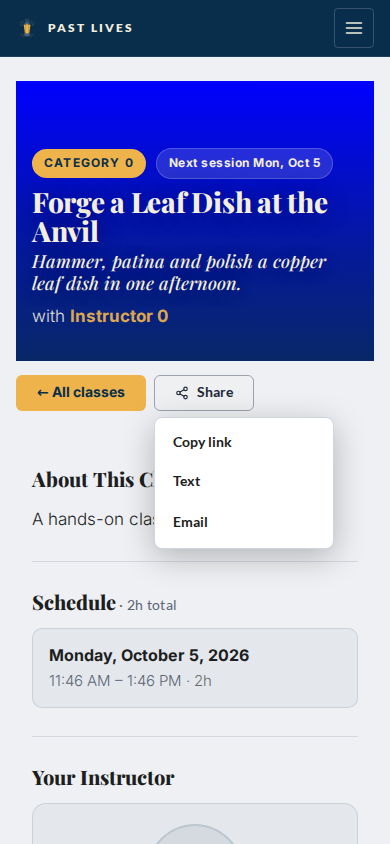
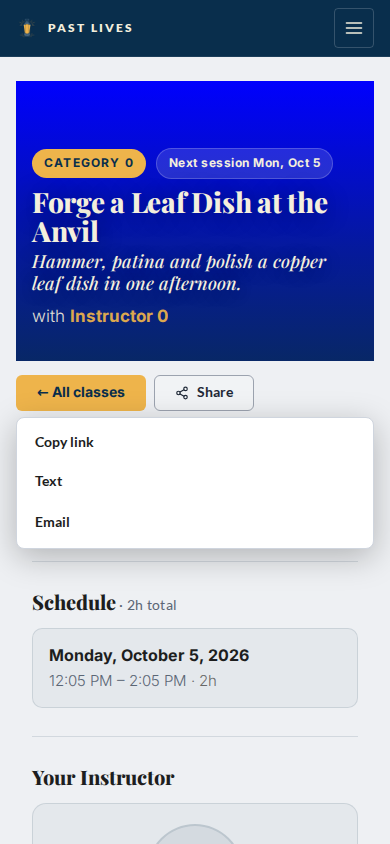
Keep the copy by hand field outside the share menu and prove it
The readonly link field sits in a positioning panel beside the menu, so
the menu holds only menu items. On a phone the panel spans the row under
both buttons instead of running off the right edge. A new e2e stubs out
the clipboard and asserts the field appears, holds the link, and is
focused with the text selected.

Claude-Session: https://claude.ai/code/session_017RsMN4dUoLdeQVL5dFqUgW

diff --git a/templates/classes/public/detail.html b/templates/classes/public/detail.html
@@ -150,13 +150,16 @@ appends and runs it on the first boosted arrival here (FRONTEND.md, Scripts unde
           </svg>
           <span>Share</span>
         </button>
-        <div class="cp-share__menu" role="menu" aria-label="Share this class" x-show="open" x-cloak>
-          <button type="button" role="menuitem" class="cp-share__item" data-share-copy="{{ offering.public_url }}"
-                  x-text="copied ? 'Copied!' : 'Copy link'">Copy link</button>
+        {# The panel positions the dropdown; the menu inside holds only menuitems (ARIA), and the by-hand copy field sits under it. #}
+        <div class="cp-share__panel" x-show="open" x-cloak>
+          <div class="cp-share__menu" role="menu" aria-label="Share this class">
+            <button type="button" role="menuitem" class="cp-share__item" data-share-copy="{{ offering.public_url }}"
+                    x-text="copied ? 'Copied!' : 'Copy link'">Copy link</button>
+            <a role="menuitem" class="cp-share__item" href="sms:?&body={{ share_body|urlencode:'' }}" @click="open = false">Text</a>
+            <a role="menuitem" class="cp-share__item" href="mailto:?subject={{ share_title|urlencode:'' }}&body={{ share_body|urlencode:'' }}" @click="open = false">Email</a>
+          </div>
           <input type="text" readonly class="cp-share__manual" value="{{ offering.public_url }}" aria-label="Class link"
                  x-show="manual" x-ref="manualUrl" @click="$el.select()">
-          <a role="menuitem" class="cp-share__item" href="sms:?&body={{ share_body|urlencode:'' }}" @click="open = false">Text</a>
-          <a role="menuitem" class="cp-share__item" href="mailto:?subject={{ share_title|urlencode:'' }}&body={{ share_body|urlencode:'' }}" @click="open = false">Email</a>
         </div>
       </div>
       {% endwith %}

diff --git a/static/css/cms-public.css b/static/css/cms-public.css
@@ -675,7 +675,9 @@ html.dark .cp-page {
   font-family: var(--font);
   border-color: var(--hub-border-strong);
 }
-.cp-share__menu {
+/* The panel is the dropdown surface; the role="menu" list inside it holds only menuitems, and
+   the by-hand copy field (revealed when the clipboard write fails) sits under that list. */
+.cp-share__panel {
   position: absolute;
   top: calc(100% + 6px);
   left: 0;
@@ -686,6 +688,8 @@ html.dark .cp-page {
   border-radius: 8px;
   box-shadow: 0 8px 32px rgba(0,0,0,0.25);
   z-index: 60;
+}
+.cp-share__menu {
   display: flex;
   flex-direction: column;
   gap: 2px;
@@ -721,8 +725,10 @@ html.dark .cp-page {
 }
 /* Shown only when the clipboard write failed: a readonly copy of the link to select by hand. */
 .cp-share__manual {
+  box-sizing: border-box;
   width: 100%;
-  margin: 2px 0;
+  min-width: 260px;
+  margin: 6px 0 2px;
   padding: 7px 10px;
   border: 1px solid var(--hub-input-border);
   border-radius: 6px;
@@ -730,6 +736,15 @@ html.dark .cp-page {
   color: var(--hub-text);
   font-family: var(--font);
   font-size: 13px;
+}
+/* On a phone the panel anchored to the button's left edge runs off the viewport once the
+   copy field shows, so the links group becomes the offset parent and the panel spans the
+   row under both buttons. */
+@media (max-width: 480px) {
+  .cp-detail__hero-links { flex: 1 1 auto; position: relative; }
+  .cp-share { position: static; }
+  .cp-share__panel { left: 0; right: 0; min-width: 0; }
+  .cp-share__manual { min-width: 0; }
 }
 
 /* ── Hero ──────────────────────────────────────── */

diff --git a/tests/e2e/class_share_spec.py b/tests/e2e/class_share_spec.py
@@ -13,6 +13,7 @@ Run with ``pytest -m e2e``.
 from __future__ import annotations
 
 from datetime import timedelta
+from typing import cast
 from urllib.parse import unquote, urlparse
 
 from django.urls import reverse
@@ -26,6 +27,8 @@ SHARE_BUTTON = "button[data-share-url]"
 MENU = ".cp-share [role=menu]"
 ITEMS = ".cp-share [role=menuitem]"
 COPY = "button[data-share-copy]"
+MANUAL = ".cp-share__manual"
+NO_CLIPBOARD = "Object.defineProperty(navigator, 'clipboard', { value: undefined });"
 TEXT_LINK = ".cp-share a[href^='sms:']"
 EMAIL_LINK = ".cp-share a[href^='mailto:']"
 TITLE = "Forge a Leaf Dish"
@@ -43,7 +46,10 @@ CAPACITOR_STUB = (
 
 
 def _published() -> ClassOffering:
-    offering = ClassOfferingFactory(status=ClassOffering.Status.PUBLISHED, title=TITLE, slug="forge-a-leaf-dish")
+    offering = cast(
+        "ClassOffering",
+        ClassOfferingFactory(status=ClassOffering.Status.PUBLISHED, title=TITLE, slug="forge-a-leaf-dish"),
+    )
     start = timezone.now() + timedelta(days=3)
     ClassSessionFactory(class_offering=offering, starts_at=start, ends_at=start + timedelta(hours=2))
     return offering
@@ -91,6 +97,27 @@ def describe_the_share_button():
 
         expect(page.locator(COPY)).to_have_text("Copied!")
         assert page.evaluate("navigator.clipboard.readText()") == offering.public_url
+
+    def it_offers_the_link_to_copy_by_hand_when_the_clipboard_is_missing(live_server, page: Page, settings):
+        page.add_init_script(NO_CLIPBOARD)
+        offering = _open(page, live_server, settings)
+        page.locator(SHARE_BUTTON).click()
+        expect(page.locator(MANUAL)).to_be_hidden()
+
+        page.locator(COPY).click()
+
+        expect(page.locator(MANUAL)).to_be_visible()
+        expect(page.locator(MANUAL)).to_have_value(offering.public_url)
+        expect(page.locator(COPY)).to_have_text("Copy link")
+        state = page.evaluate(
+            """() => {
+              const el = document.querySelector('.cp-share__manual');
+              return {focused: document.activeElement === el,
+                      start: el.selectionStart, end: el.selectionEnd, length: el.value.length};
+            }"""
+        )
+        assert state["focused"] is True
+        assert (state["start"], state["end"]) == (0, state["length"])
 
     def it_prefers_the_web_share_sheet_and_opens_no_menu(live_server, page: Page, settings):
         page.add_init_script(WEB_SHARE_STUB)

diff --git a/classes/spec/views/class_share_button_spec.py b/classes/spec/views/class_share_button_spec.py
@@ -10,6 +10,7 @@ A preview renders no button, because the page is not public yet. Assertions anch
 from __future__ import annotations
 
 import re
+from typing import cast
 from urllib.parse import quote
 
 import pytest
@@ -28,8 +29,11 @@ TEXT = "Forge a Leaf Dish at Past Lives Makerspace"
 def _published() -> ClassOffering:
     # The CMS date suffix is what strip_date_suffix drops; the slug is explicit so the
     # factory never derives one from the slashes in the title.
-    return ClassOfferingFactory(
-        status=ClassOffering.Status.PUBLISHED, title="Forge a Leaf Dish - 10/5/26", slug="forge-a-leaf-dish"
+    return cast(
+        "ClassOffering",
+        ClassOfferingFactory(
+            status=ClassOffering.Status.PUBLISHED, title="Forge a Leaf Dish - 10/5/26", slug="forge-a-leaf-dish"
+        ),
     )
 
 
